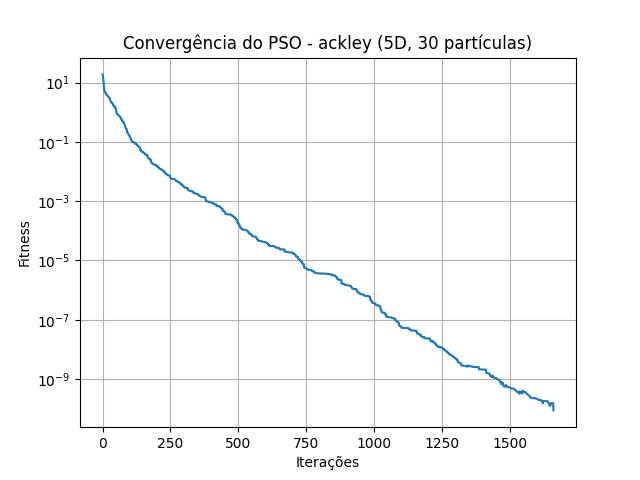
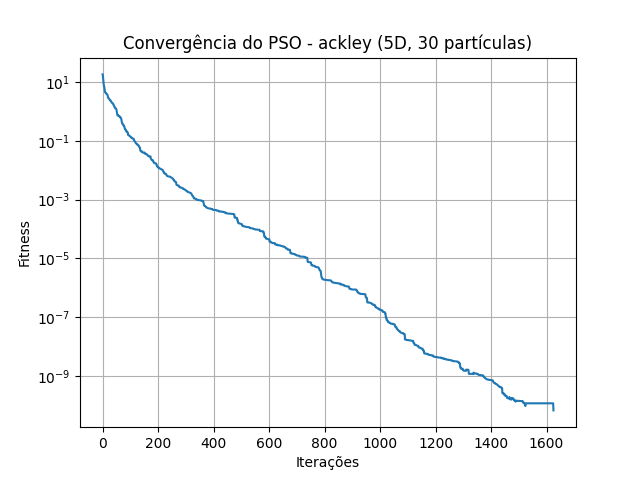
feat: testando as duas funções automaticamente

diff --git a/main.py b/main.py
@@ -16,54 +16,56 @@ def ackley(solution: np.ndarray) -> float:
     term2 = -np.exp(sum_cos / dim)
     return term1 + term2 + 20 + np.e
 
+
+
 if __name__ == '__main__':
-    TEST_FUNCTION = "griewank"
+    TEST_FUNCTIONS = ["ackley", "griewank"]
     NUM_PARTICLES = 30
     DIMENSIONS = [5, 10]
 
-    for dim in DIMENSIONS:
-        fits = []
-        max_len = 0
+    for test_function in TEST_FUNCTIONS:
+        if test_function == "ackley":
+            BOUNDS = (-32.768, 32.768)
+        else:
+            BOUNDS = (-600, 600)
+            
+        for dim in DIMENSIONS:
+            fits = []
+            max_len = 0
 
-        for i in range(10):
-            if TEST_FUNCTION == "ackley":
-                BOUNDS = (-32.768, 32.768)
-                OBJECTIVE_FUNCTION = ackley
-            else:
-                BOUNDS = (-600, 600)
-                OBJECTIVE_FUNCTION = griewank
+            for i in range(10):
 
-            pso = PSOEnvironment(
-                dimensions=dim,
-                bounds=BOUNDS,
-                objective_function=OBJECTIVE_FUNCTION,
-                num_particles=NUM_PARTICLES,
-                c1=2.05,
-                c2=2.05,
-                vmax_ratio=0.1
-            )
+                pso = PSOEnvironment(
+                    dimensions=dim,
+                    bounds=BOUNDS,
+                    objective_function= ackley if test_function == "ackley" else griewank,
+                    num_particles=NUM_PARTICLES,
+                    c1=2.05,
+                    c2=2.05,
+                    vmax_ratio=0.1
+                )
 
-            assert pso.c1 + pso.c2 > 4, "c1 + c2 deve ser maior que 4"
+                assert pso.c1 + pso.c2 > 4, "c1 + c2 deve ser maior que 4"
 
-            result = pso.optimize(tolerance=1e-10, verbose=True)
-            fits.append(result.fitness_history)
-            max_len = max(max_len, len(result.fitness_history))
+                result = pso.optimize(tolerance=1e-10, verbose=True)
+                fits.append(result.fitness_history)
+                max_len = max(max_len, len(result.fitness_history))
 
-        # Preenchimento com NaN para alinhamento
-        fits_padded = [np.pad(f, (0, max_len - len(f)), constant_values=np.nan) for f in fits]
-        mean_fit = np.nanmean(fits_padded, axis=0)
+            # Preenchimento com NaN para alinhamento
+            fits_padded = [np.pad(f, (0, max_len - len(f)), constant_values=np.nan) for f in fits]
+            mean_fit = np.nanmean(fits_padded, axis=0)
 
-        plt.plot(mean_fit)
-        plt.title(f"Convergência do PSO - {TEST_FUNCTION} ({dim}D, {NUM_PARTICLES} partículas)")
-        plt.xlabel("Iterações")
-        plt.ylabel("Fitness")
-        plt.yscale("log")
-        plt.grid()
-        plt.savefig(f"graps/convergencia_{TEST_FUNCTION}_{dim}D.png")
-        plt.show()
+            plt.plot(mean_fit)
+            plt.title(f"Convergência do PSO - {test_function} ({dim}D, {NUM_PARTICLES} partículas)")
+            plt.xlabel("Iterações")
+            plt.ylabel("Fitness")
+            plt.yscale("log")
+            plt.grid()
+            plt.savefig(f"graphs/convergencia_{test_function}_{dim}D.png")
+            plt.show()
 
-        print("\nOptimization Results:")
-        print(f"Best fitness: {result.best_fitness}")
-        print(f"Best position: {result.best_position}")
-        print(f"Iterations: {result.iterations}")
-        print(f"Final fitness: {result.fitness_history[-1]}")
+            print("\nOptimization Results:")
+            print(f"Best fitness: {result.best_fitness}")
+            print(f"Best position: {result.best_position}")
+            print(f"Iterations: {result.iterations}")
+            print(f"Final fitness: {result.fitness_history[-1]}")
